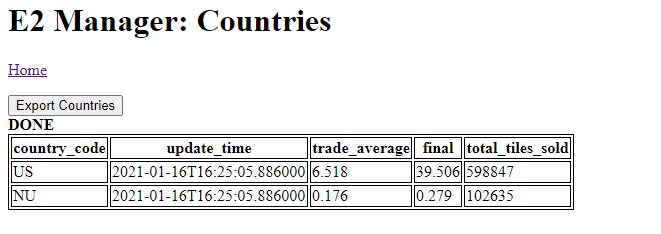
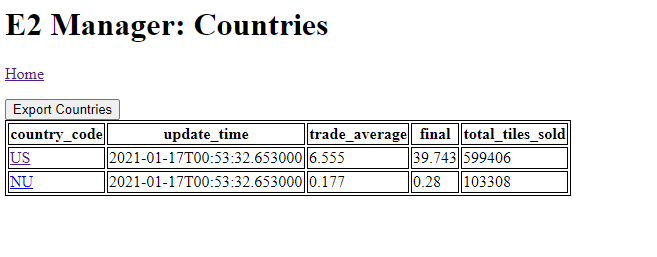
Historical functionality added

Changed region(s): [[0.0, 0.359, 0.8828, 0.8974], [0.0, 0.0299, 0.5175, 0.1795], [0.0, 0.2393, 0.0913, 0.3291]]

diff --git a/e2_manager/ui/templates/countries_detail.html b/e2_manager/ui/templates/countries_detail.html
@@ -1,0 +1,45 @@
+<!DOCTYPE html>
+<html lang="en">
+<head>
+    <meta charset="UTF-8">
+    <title>E2 Manager</title>
+    <style>
+        table, th, td {
+          border: 1px solid black;
+        }
+    </style>
+    <script src="https://ajax.googleapis.com/ajax/libs/jquery/3.5.1/jquery.min.js"></script>
+</head>
+<body>
+   <h1>E2 Manager: Countries Historical Detail : {{country_code}}</h1>
+   <p>
+    <a href="/">Home</a><br>
+    <a href="/countries">Back</a>
+   </p>
+
+
+   <table>
+        <tr>
+            <th>country_code</th>
+            <th>update_time</th>
+            <th>trade_average</th>
+            <th>final</th>
+            <th>total_tiles_sold</th>
+        </tr>
+            {% for country in country_data %}
+                <tr>
+                    <td>{{ country["country_code"] }}</td>
+                    <td>{{ country["update_time"] }}</td>
+                    <td>{{ country["trade_average"] }}</td>
+                    <td>{{ country["final"] }}</td>
+                    <td>{{ country["total_tiles_sold"] }}</td>
+                </tr>
+            {% endfor %}   
+   </table>
+
+
+</body>
+
+
+
+</html>

diff --git a/e2_manager/ui/templates/countries.html b/e2_manager/ui/templates/countries.html
@@ -28,7 +28,7 @@
         </tr>
             {% for country in country_data %}
                 <tr>
-                    <td>{{ country["country_code"] }}</td>
+                    <td><a href="/countries_detail/{{ country['country_code'] }}">{{ country["country_code"] }}</a></td>
                     <td>{{ country["update_time"] }}</td>
                     <td>{{ country["trade_average"] }}</td>
                     <td>{{ country["final"] }}</td>

diff --git a/e2_manager/backend/sql_app/crud.py b/e2_manager/backend/sql_app/crud.py
@@ -10,6 +10,12 @@ def get_country_by_code(db: Session, country_code: str):
 def get_countries(db: Session, skip: int = 0, limit: int = 100 ):
     return db.query(models.Country).offset(skip).limit(limit).all()
 
+def get_country_historical_by_code(db: Session, country_code: str):
+    return db.query(models.CountryHistorical).filter(models.CountryHistorical.country_code == country_code).all()
+
+def get_countries_historical(db: Session, skip: int = 0, limit: int = 100 ):
+    return db.query(models.CountryHistorical).offset(skip).limit(limit).all()
+
 def create_country(db: Session, country: schemas.CountryMod):
     db_country = models.Country(country_code=country.country_code,update_time=country.update_time, trade_average=country.trade_average,final=country.final,total_tiles_sold=country.total_tiles_sold)
     db.add(db_country)

diff --git a/e2_manager/backend/main.py b/e2_manager/backend/main.py
@@ -45,6 +45,12 @@ def read_db_countries(skip: int = 0, limit: int = 100, country_code: Optional[st
         return [ crud.get_country_by_code(db=db, country_code=country_code) ]
     
 
+@app.get("/countries_historical/db", response_model=List[schemas.CountryHistorical])
+def read_db_countries_historical(skip: int = 0, limit: int = 100, country_code: Optional[str] = None, db: Session = Depends(get_db)):
+    if country_code is None:
+        return crud.get_countries_historical(db, skip=skip, limit=limit)
+    else:
+        return crud.get_country_historical_by_code(db=db, country_code=country_code)
 
 @app.post("/countries/db", response_model=schemas.Country)
 def mod_country( country: schemas.CountryMod, db: Session = Depends(get_db)):

diff --git a/e2_manager/ui/app.py b/e2_manager/ui/app.py
@@ -36,6 +36,13 @@ def countries():
 
     return render_template('countries.html',country_data=r.json())
 
+@app.route('/countries_detail/<string:country_code>')
+def countries_detail(country_code):
+    r = requests.get(BACKEND_API+"countries_historical/db?country_code=" + country_code)
+
+    return render_template('countries_detail.html',country_data=r.json(), country_code=country_code)
+
+
 @app.route('/countries_export',methods = ['GET', 'POST'])
 def countries_export():
     with open('ui_exports//countries.csv', 'w', newline='') as csvfile:

diff --git a/e2_manager/README.md b/e2_manager/README.md
@@ -4,4 +4,6 @@ Next generation E2 Tools :). This is just the beginning.
 
 ![Teaser Countries](/e2_manager/screenshots/countries.png?raw=true "Countries Teaser")
 
+![Teaser Countries Historical](/e2_manager/screenshots/countries_historical.png?raw=true "Countries Teaser")
+
 Butt sucks at UI, so don't expect anything pretty anytime soon ;). Dworak plans to come to rescue to make it pretty :P.
